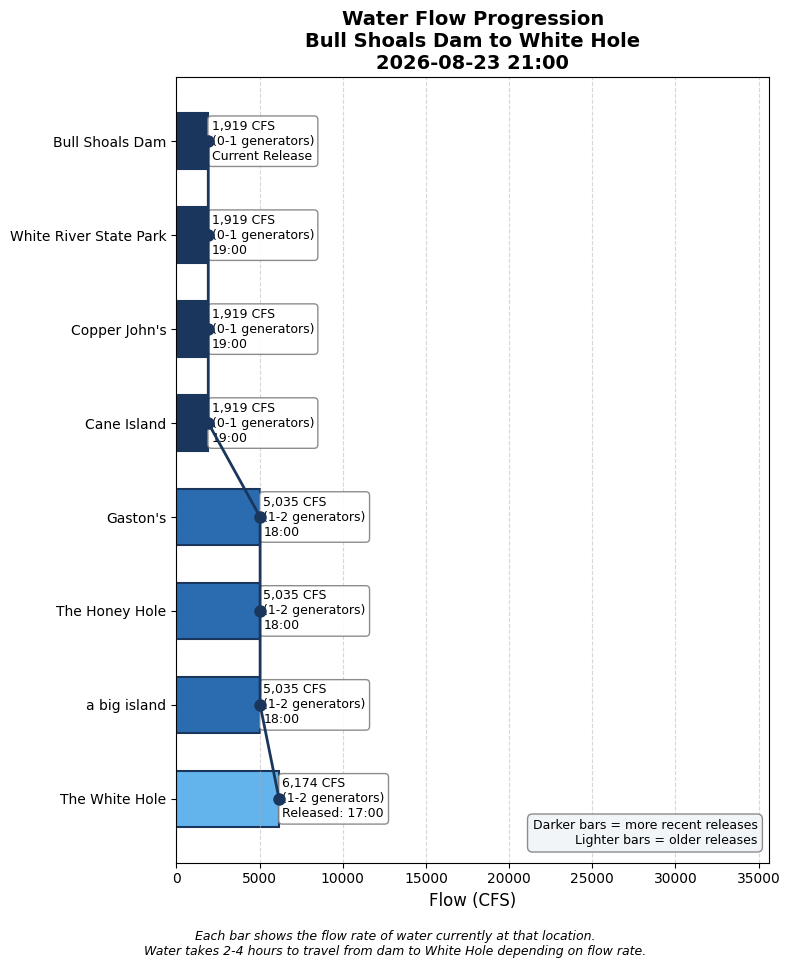
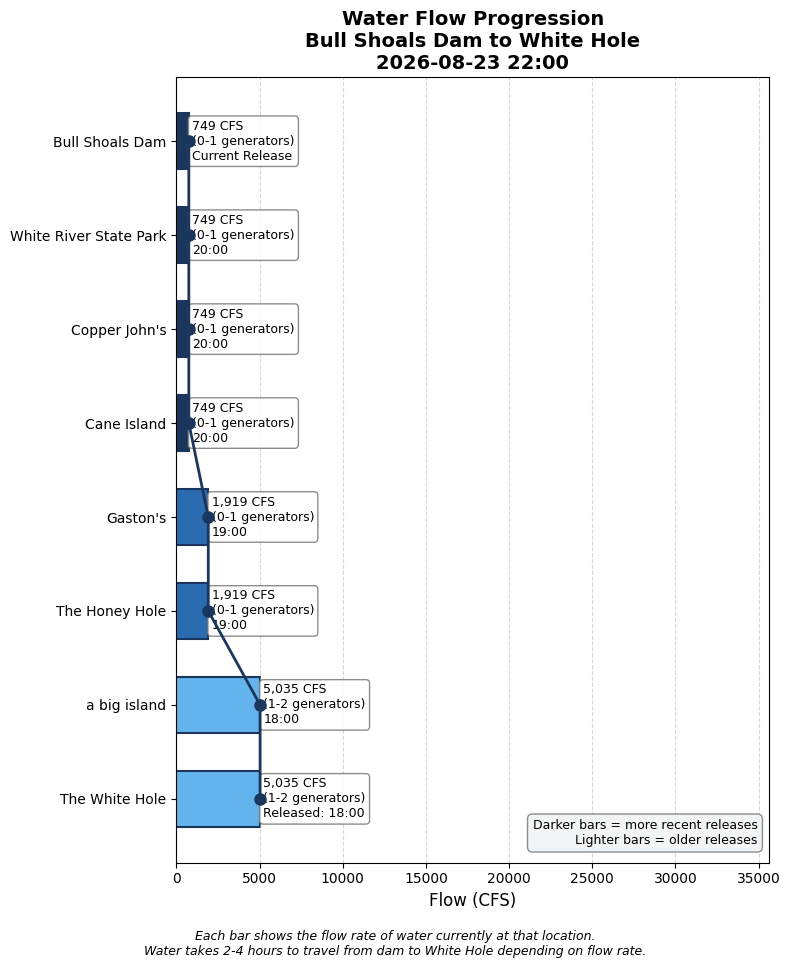
Update water conditions 2026-08-23 22:00

Changed region(s): [[0.2127, 0.093, 0.4861, 0.8678]]

diff --git a/white_hole_conditions.html b/white_hole_conditions.html
@@ -3,7 +3,7 @@
 <head>
     <meta charset="UTF-8">
     <meta name="viewport" content="width=device-width, initial-scale=1.0">
-    <title>White Hole Conditions - 2026-08-23 21:00</title>
+    <title>White Hole Conditions - 2026-08-23 22:00</title>
     <style>
         body {
             font-family: -apple-system, BlinkMacSystemFont, 'Segoe UI', Roboto, sans-serif;
@@ -148,7 +148,7 @@
 </head>
 <body>
     <h1>White Hole Current Conditions</h1>
-    <p class="subtitle">Sunday, August 23, 2026 at 09:00 PM</p>
+    <p class="subtitle">Sunday, August 23, 2026 at 10:00 PM</p>
 
     <!-- HEADLINE BANNER -->
     <div class="headline-banner">
@@ -160,7 +160,7 @@
     <!-- CURRENT CONDITIONS -->
     <div class="current-conditions">
         <h3>Current Conditions at White Hole</h3>
-        <div class="flow-display">6,174 CFS</div>
+        <div class="flow-display">5,035 CFS</div>
         <div class="generator-display">Equivalent to 1-2 generators</div>
         <div class="condition-pills">
             <span class="pill wading">No Wading</span>
@@ -204,39 +204,31 @@
                         </td>
                     </tr>
                 
-                    <tr style="background-color: #faf5ff; border-left: 4px solid #38a169;">
-                        <td style="padding: 10px; font-weight: bold;">9 PM</td>
-                        <td style="padding: 10px;">723 CFS<br><small style="color: #666;">(0-1 generators: 473 generation + 250 min flow)</small></td>
-                        <td style="padding: 10px;">~12:44 AM
-                            <span style="display: inline-block; margin-left: 6px; padding: 2px 8px; border-radius: 12px; font-size: 0.8em; background-color: #d1fae5; color: #065f46;">Excellent Wading</span>
-                        </td>
-                    </tr>
-                
             
                     
                 <tr><td colspan="3" style="padding: 8px 10px; font-size: 0.8em; font-weight: bold; color: #2b6cb0; text-transform: uppercase; letter-spacing: 0.05em; background-color: #ebf8ff;">Actual (dam readings)</td></tr>
                 
                     <tr style="background-color: #ebf8ff;">
-                        <td style="padding: 10px; font-weight: bold;">7:00 PM</td>
-                        <td style="padding: 10px;">1,919 CFS<br><small style="color: #666;">(0-1 generators)</small></td>
-                        <td style="padding: 10px;"><span style="color: #2b6cb0;">→ Arrives ~10:44 PM (in 103 min)</span></td>
+                        <td style="padding: 10px; font-weight: bold;">8:00 PM</td>
+                        <td style="padding: 10px;">749 CFS<br><small style="color: #666;">(0-1 generators)</small></td>
+                        <td style="padding: 10px;"><span style="color: #2b6cb0;">→ Arrives ~11:44 PM (in 103 min)</span></td>
                     </tr>
                 
                     <tr style="background-color: #ebf8ff;">
-                        <td style="padding: 10px; font-weight: bold;">6:00 PM</td>
-                        <td style="padding: 10px;">5,035 CFS<br><small style="color: #666;">(1-2 generators)</small></td>
-                        <td style="padding: 10px;"><span style="color: #2b6cb0;">→ Arrives ~9:16 PM (in 16 min)</span></td>
+                        <td style="padding: 10px; font-weight: bold;">7:00 PM</td>
+                        <td style="padding: 10px;">1,919 CFS<br><small style="color: #666;">(0-1 generators)</small></td>
+                        <td style="padding: 10px;"><span style="color: #2b6cb0;">→ Arrives ~10:44 PM (in 43 min)</span></td>
                     </tr>
                 
                     <tr style="background-color: #e6fffa;">
-                        <td style="padding: 10px; font-weight: bold;">5:00 PM</td>
-                        <td style="padding: 10px;">6,174 CFS<br><small style="color: #666;">(1-2 generators)</small></td>
+                        <td style="padding: 10px; font-weight: bold;">6:00 PM</td>
+                        <td style="padding: 10px;">5,035 CFS<br><small style="color: #666;">(1-2 generators)</small></td>
                         <td style="padding: 10px;"><span style="color: #319795; font-weight: bold;">← AT WHITE HOLE NOW</span></td>
                     </tr>
                 
                     <tr style="">
-                        <td style="padding: 10px; font-weight: bold;">2:00 PM</td>
-                        <td style="padding: 10px;">795 CFS<br><small style="color: #666;">(0-1 generators)</small></td>
+                        <td style="padding: 10px; font-weight: bold;">3:00 PM</td>
+                        <td style="padding: 10px;">756 CFS<br><small style="color: #666;">(0-1 generators)</small></td>
                         <td style="padding: 10px;"><span style="color: #718096;">passed</span></td>
                     </tr>
                 
@@ -266,9 +258,9 @@
         </summary>
         <div style="padding: 15px;">
             <ul>
-                <li>Latest dam reading: 1,919 CFS at 2026-08-23 19:00</li>
-                <li>Travel time to White Hole: 3.0 hours at current flow</li>
-                <li>White Hole conditions based on dam reading from: 2026-08-23 17:00</li>
+                <li>Latest dam reading: 749 CFS at 2026-08-23 20:00</li>
+                <li>Travel time to White Hole: 3.3 hours at current flow</li>
+                <li>White Hole conditions based on dam reading from: 2026-08-23 18:00</li>
             </ul>
         </div>
     </details>
@@ -290,6 +282,13 @@
                     </thead>
                     <tbody>
                         
+                <tr style="border-bottom: 1px solid #eee;">
+                    <td style="padding: 8px;">2026-08-23 20:00</td>
+                    <td style="padding: 8px; text-align: right;">749</td>
+                    <td style="padding: 8px; text-align: right;">0.2</td>
+                    <td style="padding: 8px; text-align: right;">3.7</td>
+                </tr>
+                
                 <tr style="border-bottom: 1px solid #eee;">
                     <td style="padding: 8px;">2026-08-23 19:00</td>
                     <td style="padding: 8px; text-align: right;">1919</td>
@@ -353,13 +352,6 @@
                     <td style="padding: 8px; text-align: right;">3.7</td>
                 </tr>
                 
-                <tr style="border-bottom: 1px solid #eee;">
-                    <td style="padding: 8px;">2026-08-23 10:00</td>
-                    <td style="padding: 8px; text-align: right;">779</td>
-                    <td style="padding: 8px; text-align: right;">0.2</td>
-                    <td style="padding: 8px; text-align: right;">3.7</td>
-                </tr>
-                
                     </tbody>
                 </table>
             </div>
@@ -367,7 +359,7 @@
         
 
     <div class="timestamp">
-        Data retrieved and processed on 2026-08-23 21:00:09
+        Data retrieved and processed on 2026-08-23 22:00:14
     </div>
 </body>
 </html>
